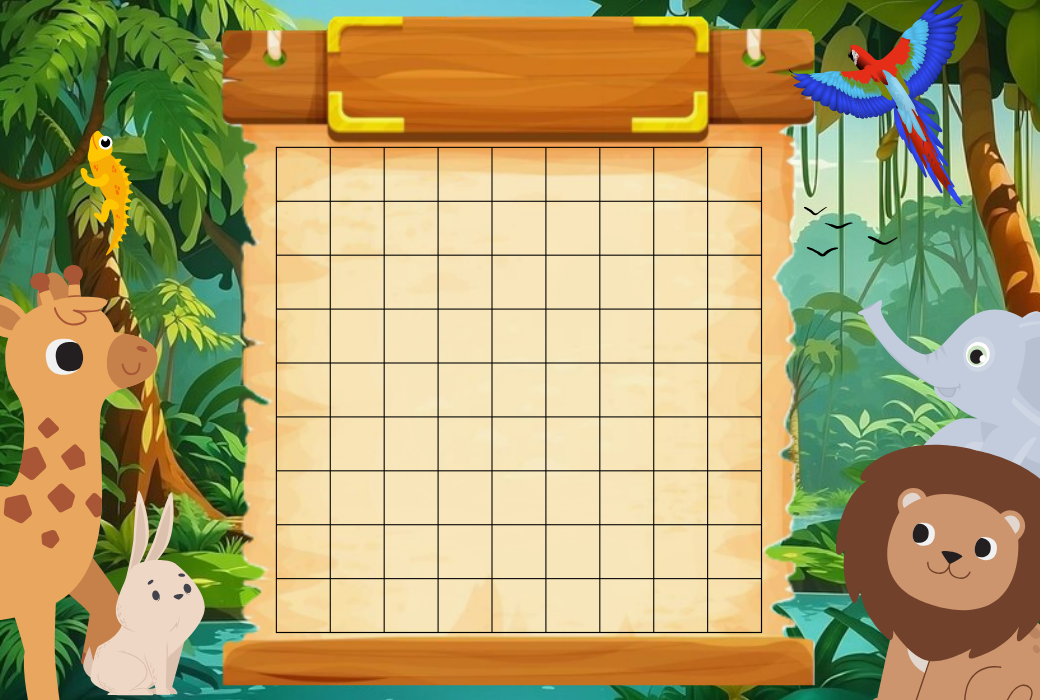
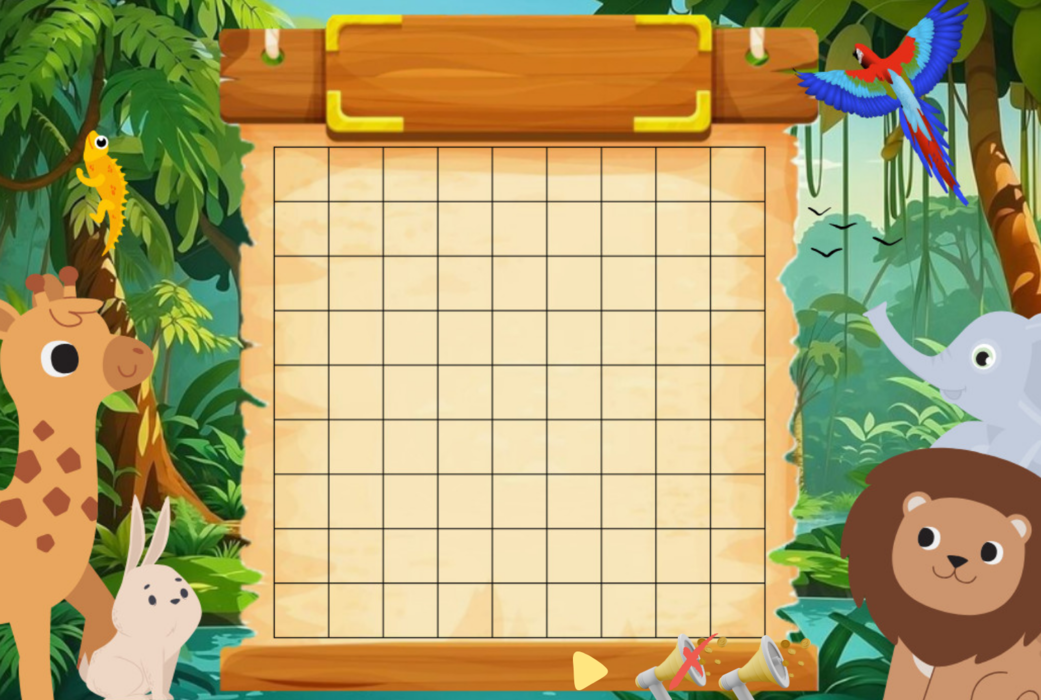
add mute-unmute-pause

diff --git a/src/GamePlay.java b/src/GamePlay.java
@@ -1,4 +1,5 @@
 import java.awt.Graphics;
+import java.awt.Rectangle;
 import java.awt.event.ActionEvent;
 import java.awt.event.ActionListener;
 import java.awt.image.BufferedImage;
@@ -72,7 +73,7 @@ public class GamePlay implements GameStateBase {
         listOfBall = new Ball[10][10];
         random = new Random();
         sc = new Score();
-        timer = new Timer(10);
+        timer = new Timer(5);
         p = new Point(-1, -1);
         pathBall = new ArrayList<>();
 
@@ -344,6 +345,18 @@ public class GamePlay implements GameStateBase {
     // click => checkPath => if can go => showPath => smallToBigBall => addSmallBall
     // => checkBall count Score
     public void mouse_click(int mx, int my) {
+        if (new Rectangle(570, 650, 30, 30).contains(mx, my)) {
+            pauseScreen();
+            SoundEffect.StopBGM();
+            SoundEffect.playBGM(4);
+            gamepanel.getGameStateManager().setState(3);
+
+        } else if (new Rectangle(640, 650, 50, 30).contains(mx, my)) {
+            SoundEffect.StopBGM();
+        } else if (new Rectangle(720, 650, 50, 30).contains(mx, my)) {
+            SoundEffect.playBGM(0);
+        }
+
         if (showPathIsDone) {
             if (my > 150) {
                 int yy = (my - 150) / 54;
@@ -398,9 +411,11 @@ public class GamePlay implements GameStateBase {
     public void resumeScreen() {
         timer.resume();
     }
-    public void startTimer(){
+
+    public void startTimer() {
         timer.start();
     }
+
     public void restart() {
         init();
     }

diff --git a/src/GameOverState.java b/src/GameOverState.java
@@ -7,7 +7,6 @@ import java.io.BufferedReader;
 import java.io.File;
 import java.io.FileInputStream;
 import java.io.IOException;
-import java.io.InputStream;
 import java.io.InputStreamReader;
 import java.io.PrintWriter;
 import java.nio.file.Files;
@@ -48,7 +47,7 @@ public class GameOverState implements GameStateBase {
 
     public void draw(Graphics g) {
 
-        g.setColor(new Color(0, 0, 0, 150));
+        g.setColor(new Color(255, 215, 0));
 
         g.drawImage(mn[0], 0, 0, null);
 

diff --git a/src/GamePanel.java b/src/GamePanel.java
@@ -1,6 +1,5 @@
 
 import java.awt.Graphics;
-import java.io.PrintWriter;
 
 import javax.swing.*;
 
